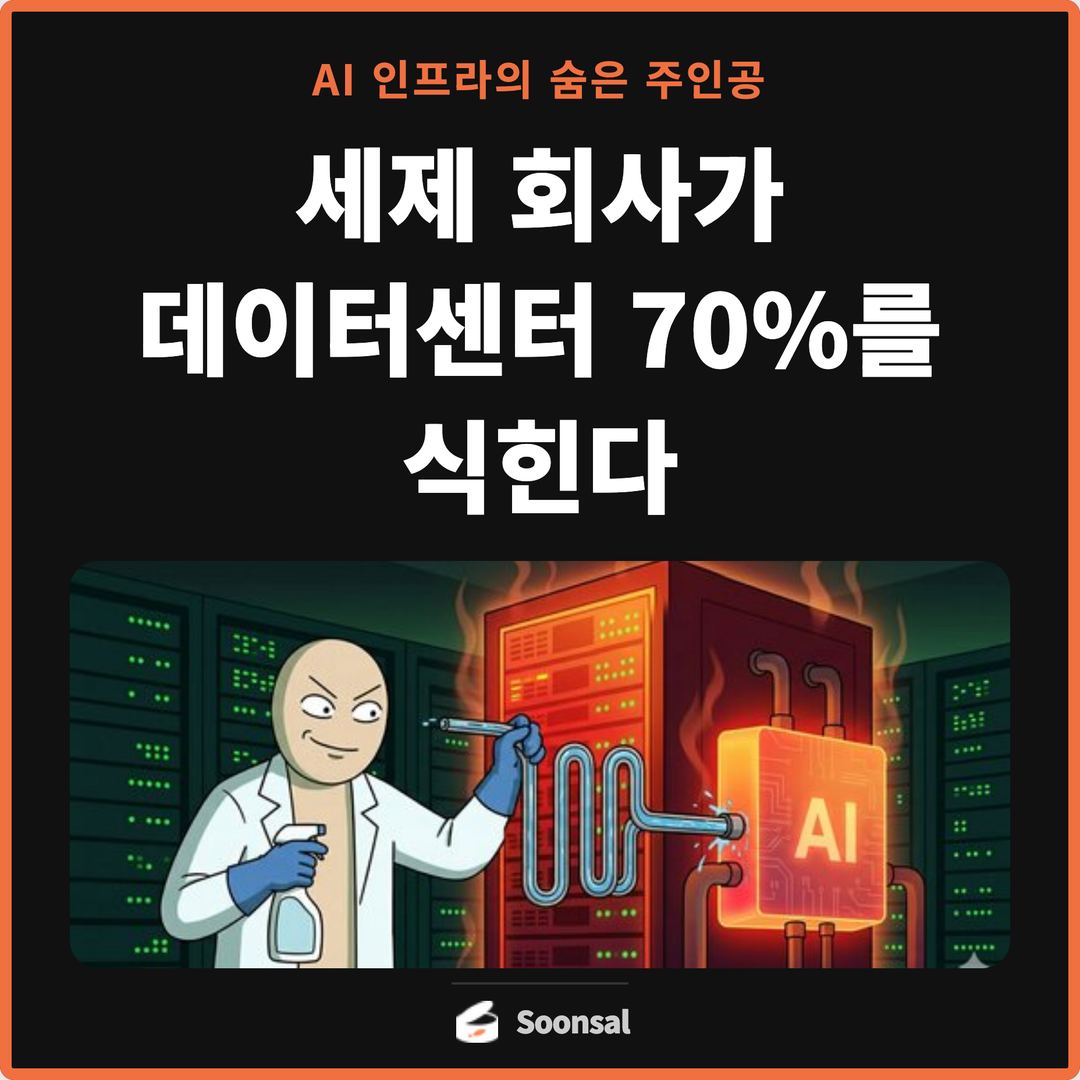
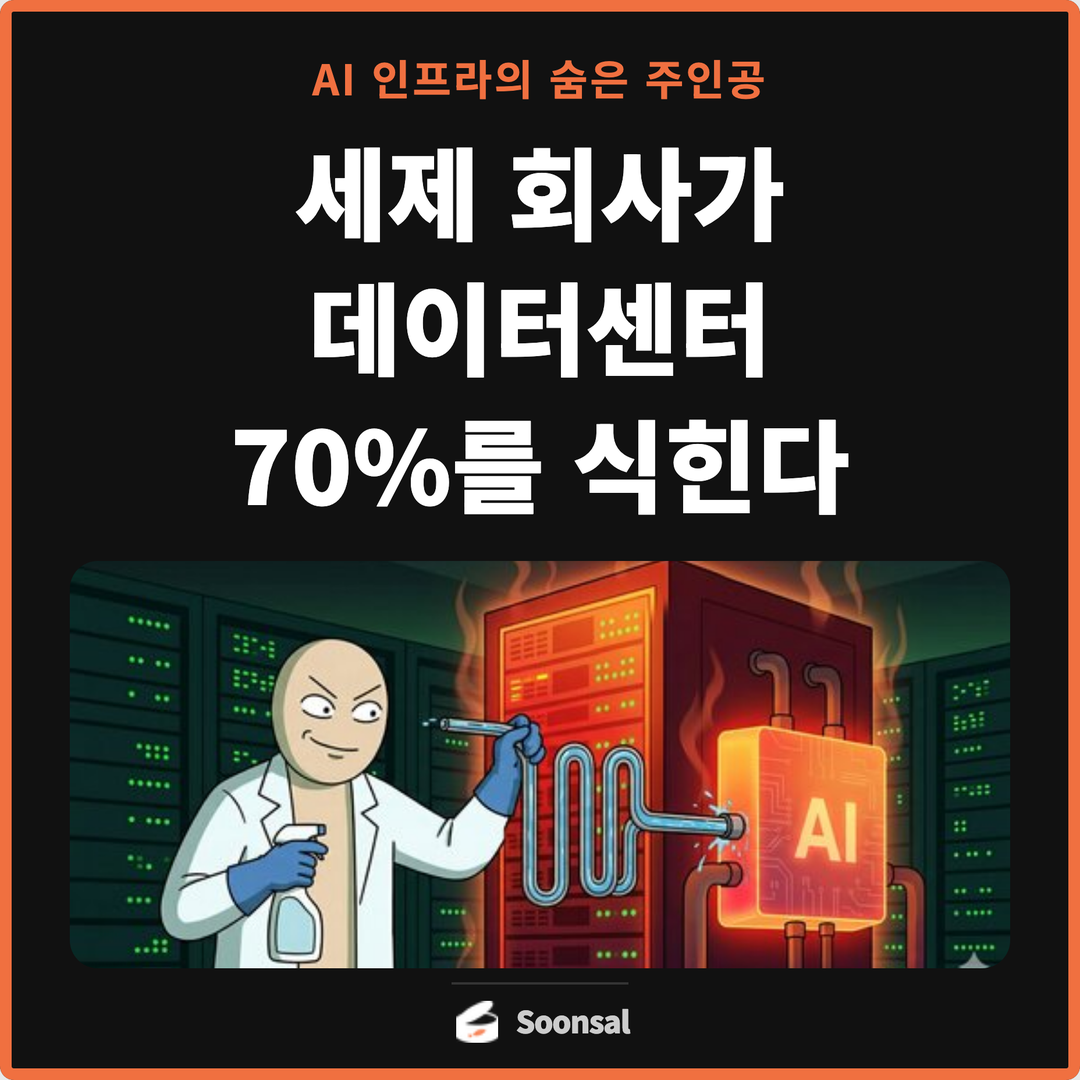
Add 순살카드뉴스 0409

Changed region(s): [[0.1222, 0.2444, 0.8861, 0.4889]]

diff --git a/cardnews/2026/0409.html b/cardnews/2026/0409.html
@@ -47,7 +47,7 @@
 <!-- 1p 커버 -->
 <div class="card" style="background:#111; justify-content:space-between; gap:6px;">
   <div style="font-size:18px; font-weight:700; color:#F07040; letter-spacing:1px;">AI 인프라의 숨은 주인공</div>
-  <div class="top-text cover-title" style="font-size:38px; color:#fff; line-height:1.35;">세제 회사가<br>데이터센터 70%를 식힌다</div>
+  <div class="top-text cover-title" style="font-size:40px; color:#fff; line-height:1.35;">세제 회사가 데이터센터<br>70%를 식힌다</div>
   <div style="flex:1 1 0; width:calc(100% - 16px); max-height:220px; margin:8px auto 0; border-radius:12px; overflow:hidden;">
[1 lines of base64/hex data omitted]
   </div>
